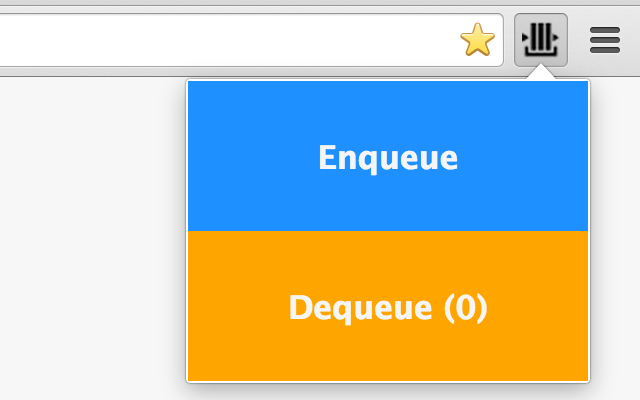
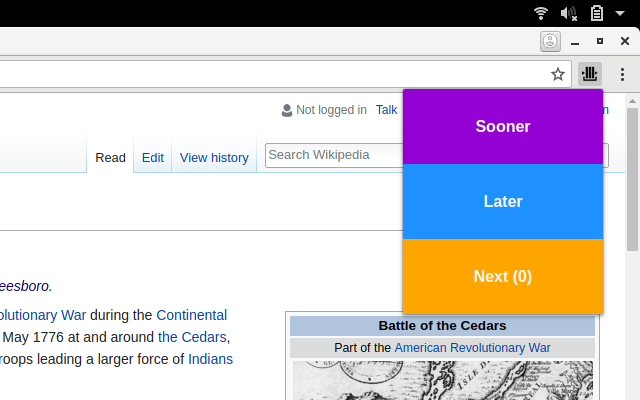
Refactor for version 2

diff --git a/lib/src/read_queue_store.dart b/lib/src/read_queue_store.dart
@@ -11,7 +11,11 @@ class ReadQueueStore extends Store {
   List<String> _currentQueue = [];
 
   ReadQueueStore(ReadQueueActions actions, this._events) {
-    actions..dequeue.listen(_handleDequeue)..enqueue.listen(_handleEnqueue)..peek.listen(_handlePeek);
+    actions
+      ..peekNext.listen(_handlePeekNext)
+      ..popNext.listen(_handlePopNext)
+      ..pushLater.listen(_handlePushLater)
+      ..pushSooner.listen(_handlePushSooner);
     chrome.storage.onChanged.listen((_) async {
       await _loadQueue();
       trigger();
@@ -30,7 +34,16 @@ class ReadQueueStore extends Store {
     return tab.url;
   }
 
-  Future<Null> _handleDequeue(_) async {
+  Future<Null> _handlePeekNext(_) async {
+    await _loadQueue();
+    if (_currentQueue.isEmpty) {
+      return;
+    }
+    var url = _currentQueue.first;
+    _events.dispatchDidPeekNext(url);
+  }
+
+  Future<Null> _handlePopNext(_) async {
     await _loadQueue();
     if (_currentQueue.isEmpty) {
       // TODO: Show an error or something?
@@ -38,24 +51,23 @@ class ReadQueueStore extends Store {
     }
     var url = _currentQueue.removeAt(0);
     await _saveQueue();
-    _events.dispatchDidDequeueUrl(url);
+    _events.dispatchDidPopNext(url);
   }
 
-  Future<Null> _handleEnqueue(_) async {
+  Future<Null> _handlePushLater(_) async {
     var url = await _getCurrentUrl();
     await _loadQueue();
     _currentQueue.add(url);
     await _saveQueue();
-    _events.dispatchDidEnqueueUrl(url);
+    _events.dispatchDidPushLater(url);
   }
 
-  Future<Null> _handlePeek(_) async {
+  Future<Null> _handlePushSooner(_) async {
+    var url = await _getCurrentUrl();
     await _loadQueue();
-    if (_currentQueue.isEmpty) {
-      return;
-    }
-    var url = _currentQueue.first;
-    _events.dispatchDidPeekUrl(url);
+    _currentQueue.insert(0, url);
+    await _saveQueue();
+    _events.dispatchDidPushSooner(url);
   }
 
   /// Load the queue from storage.

diff --git a/lib/src/components/queue_controls.dart b/lib/src/components/queue_controls.dart
@@ -1,4 +1,6 @@
+import 'dart:async';
 import 'package:over_react/over_react.dart';
+import 'package:react/react.dart' show SyntheticMouseEvent;
 
 import 'package:read_queue/src/read_queue_actions.dart';
 import 'package:read_queue/src/read_queue_store.dart';
@@ -16,16 +18,35 @@ class QueueControlsComponent extends FluxUiComponent<QueueControlsProps> {
   dynamic render() {
     return (Dom.div()..id = 'queue-controls')(
         (Dom.div()
-          ..className = 'button enqueue-button'
+          ..className = 'button sooner-button'
           ..onClick = (_) async {
-            await props.actions.enqueue(null);
-          })('Enqueue'),
+            await props.actions.pushSooner(null);
+          })('Sooner'),
         (Dom.div()
-          ..className = 'button dequeue-button'
+          ..className = 'button later-button'
           ..onClick = (_) async {
-            await props.actions.dequeue(null);
-          }..onDoubleClick = (_) async {
-            await props.actions.peek(null);
-          })('Dequeue (${props.store.currentQueue.length})'));
+            await props.actions.pushLater(null);
+          })('Later'),
+        (Dom.div()
+          ..className = 'button now-button'
+          ..onClick = _handleNowButtonClick
+          ..onContextMenu = _handleNowButtonContextClick)(
+            'Now (${props.store.currentQueue.length})'));
+  }
+
+  Future<Null> _handleNowButtonClick(SyntheticMouseEvent e) async {
+    if (props.store.currentQueue.isEmpty) {
+      return;
+    }
+    await props.actions.popNext(null);
+  }
+
+  Future<Null> _handleNowButtonContextClick(SyntheticMouseEvent e) async {
+    if (props.store.currentQueue.isEmpty) {
+      return;
+    }
+    e.stopPropagation();
+    e.preventDefault();
+    await props.actions.peekNext(null);
   }
 }

diff --git a/lib/src/read_queue_events.dart b/lib/src/read_queue_events.dart
@@ -1,22 +1,28 @@
 import 'dart:async';
 
 class ReadQueueEvents {
-  final StreamController<String> _didDequeueUrl =
+  final StreamController<String> _didPeekNext =
       new StreamController<String>.broadcast();
-  final StreamController<String> _didEnqueueUrl =
+  final StreamController<String> _didPopNext =
       new StreamController<String>.broadcast();
-  final StreamController<String> _didPeekUrl =
+  final StreamController<String> _didPushLater =
+      new StreamController<String>.broadcast();
+  final StreamController<String> _didPushSooner =
       new StreamController<String>.broadcast();
 
-  Stream<String> get didDequeueUrl => _didDequeueUrl.stream;
+  Stream<String> get didPeekNext => _didPeekNext.stream;
 
-  Stream<String> get didEnqueueUrl => _didEnqueueUrl.stream;
+  Stream<String> get didPopNext => _didPopNext.stream;
 
-  Stream<String> get didPeekUrl => _didPeekUrl.stream;
+  Stream<String> get didPushLater => _didPushLater.stream;
 
-  void dispatchDidDequeueUrl(String url) => _didDequeueUrl.add(url);
+  Stream<String> get didPushSooner => _didPushSooner.stream;
 
-  void dispatchDidEnqueueUrl(String url) => _didEnqueueUrl.add(url);
+  void dispatchDidPeekNext(String url) => _didPeekNext.add(url);
 
-  void dispatchDidPeekUrl(String url) => _didPeekUrl.add(url);
+  void dispatchDidPopNext(String url) => _didPopNext.add(url);
+
+  void dispatchDidPushLater(String url) => _didPushLater.add(url);
+
+  void dispatchDidPushSooner(String url) => _didPushSooner.add(url);
 }

diff --git a/extension/popup.dart b/extension/popup.dart
@@ -13,15 +13,23 @@ import 'package:read_queue/src/read_queue_store.dart';
 Future<Null> main() async {
   var actions = new ReadQueueActions();
 
-  var events = new ReadQueueEvents()..didDequeueUrl.listen((url) async {
-    await chrome.tabs.create(new chrome.TabsCreateParams(url: url, active: true));
-    window.close();
-  })..didEnqueueUrl.listen((_url) {
-    window.close();
-  })..didPeekUrl.listen((url) async {
-    await chrome.tabs.create(new chrome.TabsCreateParams(url: url, active: true));
-    window.close();
-  });
+  var events = new ReadQueueEvents()
+    ..didPeekNext.listen((url) async {
+      await chrome.tabs
+          .create(new chrome.TabsCreateParams(url: url, active: true));
+      window.close();
+    })
+    ..didPopNext.listen((url) async {
+      await chrome.tabs
+          .create(new chrome.TabsCreateParams(url: url, active: true));
+      window.close();
+    })
+    ..didPushLater.listen((_url) {
+      window.close();
+    })
+    ..didPushSooner.listen((_url) {
+      window.close();
+    });
 
   var store = new ReadQueueStore(actions, events);
   await store.init();

diff --git a/lib/transformer.dart b/lib/transformer.dart
@@ -1,0 +1,31 @@
+import 'dart:async';
+import 'dart:convert';
+import 'dart:io';
+
+import 'package:barback/barback.dart';
+import 'package:pubspec/pubspec.dart';
+
+class ManifestTransformer extends Transformer {
+  ManifestTransformer.asPlugin();
+
+  Future apply(Transform transform) async {
+    var stringContent = await transform.primaryInput.readAsString();
+    var jsonContent = JSON.decode(stringContent);
+
+    // Version
+    var pubspec = await PubSpec.load(Directory.current);
+    var version = pubspec.version;
+
+    if (jsonContent is Map) {
+      jsonContent['version'] = version.toString();
+    }
+
+    var id = transform.primaryInput.id;
+
+    var newContent = JSON.encode(jsonContent);
+    transform.addOutput(new Asset.fromString(id, newContent));
+  }
+
+  @override
+  Future<bool> isPrimary(AssetId id) async => id.path.endsWith('manifest.json');
+}

diff --git a/extension/popup.scss b/extension/popup.scss
@@ -7,12 +7,15 @@ body {
   font-family: "Segoe UI", "Lucida Grande", Tahoma, sans-serif;
   font-size: 1.0rem;
   margin: 0;
-  min-height: 150px;
-  min-width: 200px;
+  height: 225px;
+  width: 200px;
   padding: 0;
 }
 
 #queue-controls {
+  height: 225px;
+  width: 200px;
+
   .button {
     align-items: center;
     color: whitesmoke;
@@ -24,11 +27,15 @@ body {
     width: 200px;
   }
 
-  .dequeue-button {
-    background: orange;
+  .sooner-button {
+    background: darkviolet;
   }
 
-  .enqueue-button {
+  .later-button {
     background: dodgerblue;
+  }
+
+  .next-button {
+    background: orange;
   }
 }

diff --git a/lib/src/read_queue_actions.dart b/lib/src/read_queue_actions.dart
@@ -1,7 +1,8 @@
 import 'package:w_flux/w_flux.dart';
 
 class ReadQueueActions {
-  final Action<Null> dequeue = new Action<Null>();
-  final Action<Null> enqueue = new Action<Null>();
-  final Action<Null> peek = new Action<Null>();
+  final Action<Null> peekNext = new Action<Null>();
+  final Action<Null> popNext = new Action<Null>();
+  final Action<Null> pushLater = new Action<Null>();
+  final Action<Null> pushSooner = new Action<Null>();
 }
